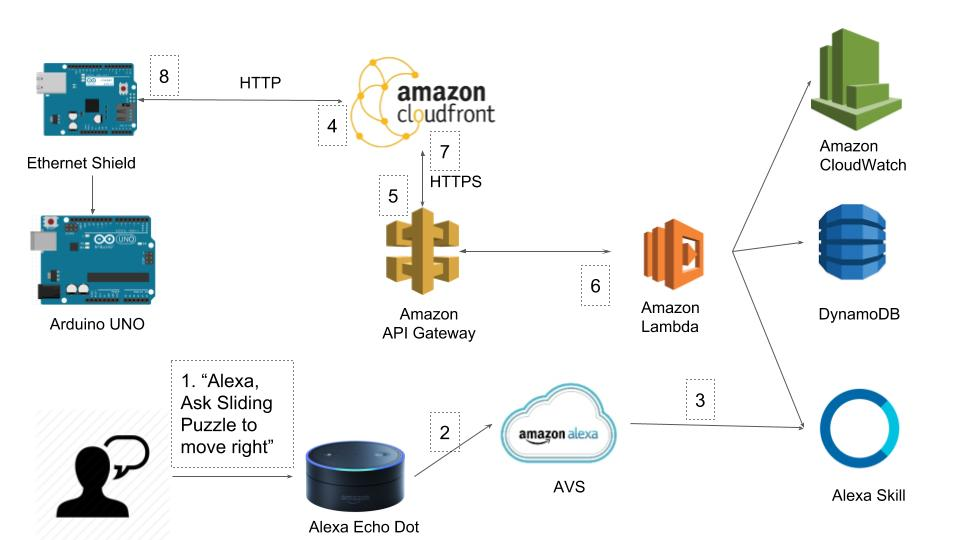
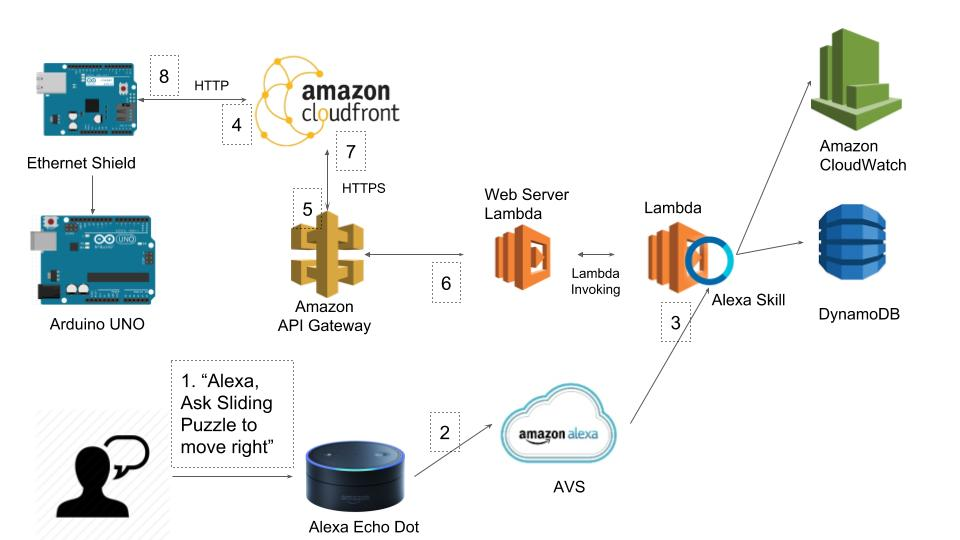
finish step 2

diff --git a/2-webserver-lambda-function.md b/2-webserver-lambda-function.md
@@ -1,0 +1,22 @@
+# Web Server in Lambda Function
+
+## Why
+For better modularity, we set up another lambda function which serves as a web server, exclusively dealing with all requests from and to the Arduino end.
+
+It has its own storage and persistent variables. The lambda function storing logic for Alexa Skill has all "puzzle-related" variables, whereas this web server lambda function stores all "arduino request-related" variables ( e.g. `toMove`, `startingPos`, `endingPos`, you could also save something like `timesRequested` etc. )
+
+For this web server to be synchronized with the latest puzzle states, we will need to invocation between lambda functions, which will be [discussed later](./4-invoking-another-lambda.md).
+
+## How
+1. copy the entire `arduinoRequestHandlers` folders to your project folder.
+2. type `./publish.sh` to execute the bash script which compresses all files under `arduinoRequestHandlers/lambda` including node_modules into a .zip file and update to your Amazon Lambda Function.
+
+## Quick Walk-through of the code
+- [query parameters](https://en.wikipedia.org/wiki/Query_string) in API query string will appear as a child object in `event` parameter. In our case: `event.action` has a few possible values ( `arduinoPull`, `arduinoMove`, `update` and `availabilityCheck` ), and when any other clients request for the API specified in the [next step: api gateway](./3-configure-api-gateway.md) appending with `?action=arduinoPull` for instance, the web server could find respective handling logic.
+- DynamoDB read and write are standard implementation, whose more samples could be seen [here](https://docs.aws.amazon.com/sdk-for-javascript/v2/developer-guide/dynamodb-examples.html).
+- Since DynamoDB is also a network asynchronous request (within Amazon's different service), the request our web server received could actually come from DynamoDB which is distinguishable as its `event.Records` will have contents.
+- [DynamoDB supported types](https://docs.aws.amazon.com/amazondynamodb/latest/developerguide/DynamoDBMapper.DataTypes.html)
+
+
+<a href="./1-build-alexa-skill.md"><img src="./assets/prev_2.png" style="float:left; margin-bottom: 30px;"></img></a>
+<a href="./3-configure-api-gateway.md"><img src="./assets/next_2.png" style="float:right;"></img></a>

diff --git a/README.md b/README.md
@@ -36,19 +36,20 @@ Amazon Account:
 
 - **[STEP 0:](./0-system-architecture.md) System Architecture**
 
-- **STEP 1: Alexa Skill built with `ASK-SDK` and `ASK CLI`**
+- **[STEP 1](./1-build-alexa-skill.md): Alexa Skill built with `ASK-SDK` and `ASK CLI`**
 
-- **STEP 2: Invoking another Lambda Function**
+- **[STEP 2](./2-configure-api-gateway.md): Configuring `Amazon API Gateway`**
+  - API call handling hooked up with Lambda Functions
+
+- **[STEP 3](./3-webserver-lambda-function.md): Implement Web Server in another Lambda Function**
+
+- **[STEP 4](./4-invoking-another-lambda.md): Invoking between Lambda Functions**
   - to modulate and decouple the web server logic from that of the Alexa skill's core logic
 
-- **STEP 3: Configuring `Amazon API Gateway`**
-
-- **STEP 4: Implement Web Server in another Lambda Function and connecting the two**
-
-- **STEP 5: Configuring `Amazon CloudFront`**
+- **[STEP 5](./5-configure-cloudfront.md): Configuring `Amazon CloudFront`**
 	- accept HTTP request instead of HTTPS, while avoiding `cdn` for JSON request
 
-- **STEP 6: Implement Arduino WebClient**
+- **[STEP 6](./6-arduino-webclient.md): Implement Arduino WebClient**
 	- to parse JSON response and initiate HTTP request
 
 - (Additional) A hacky way to keep Alexa Echo waiting for minutes without ending the session

diff --git a/1-build-alexa-skill.md b/1-build-alexa-skill.md
@@ -26,4 +26,4 @@ All Alexa Skill code should be pretty self-explanatory, if you bumped into any s
 - Check your *IAM Role*, make sure at least you have `lambda_basic_execution_access`, `dynamodb_execution` permissions.
 
 <a href="./0-system-architecture.md"><img src="./assets/prev_1.png" style="float:left; margin-bottom: 30px;"></img></a>
-<a href="./2-invoking-lambda-function.md"><img src="./assets/next_1.png" style="float:right;"></img></a>
+<a href="./2-webserver-lambda-function.md"><img src="./assets/next_1.png" style="float:right;"></img></a>
